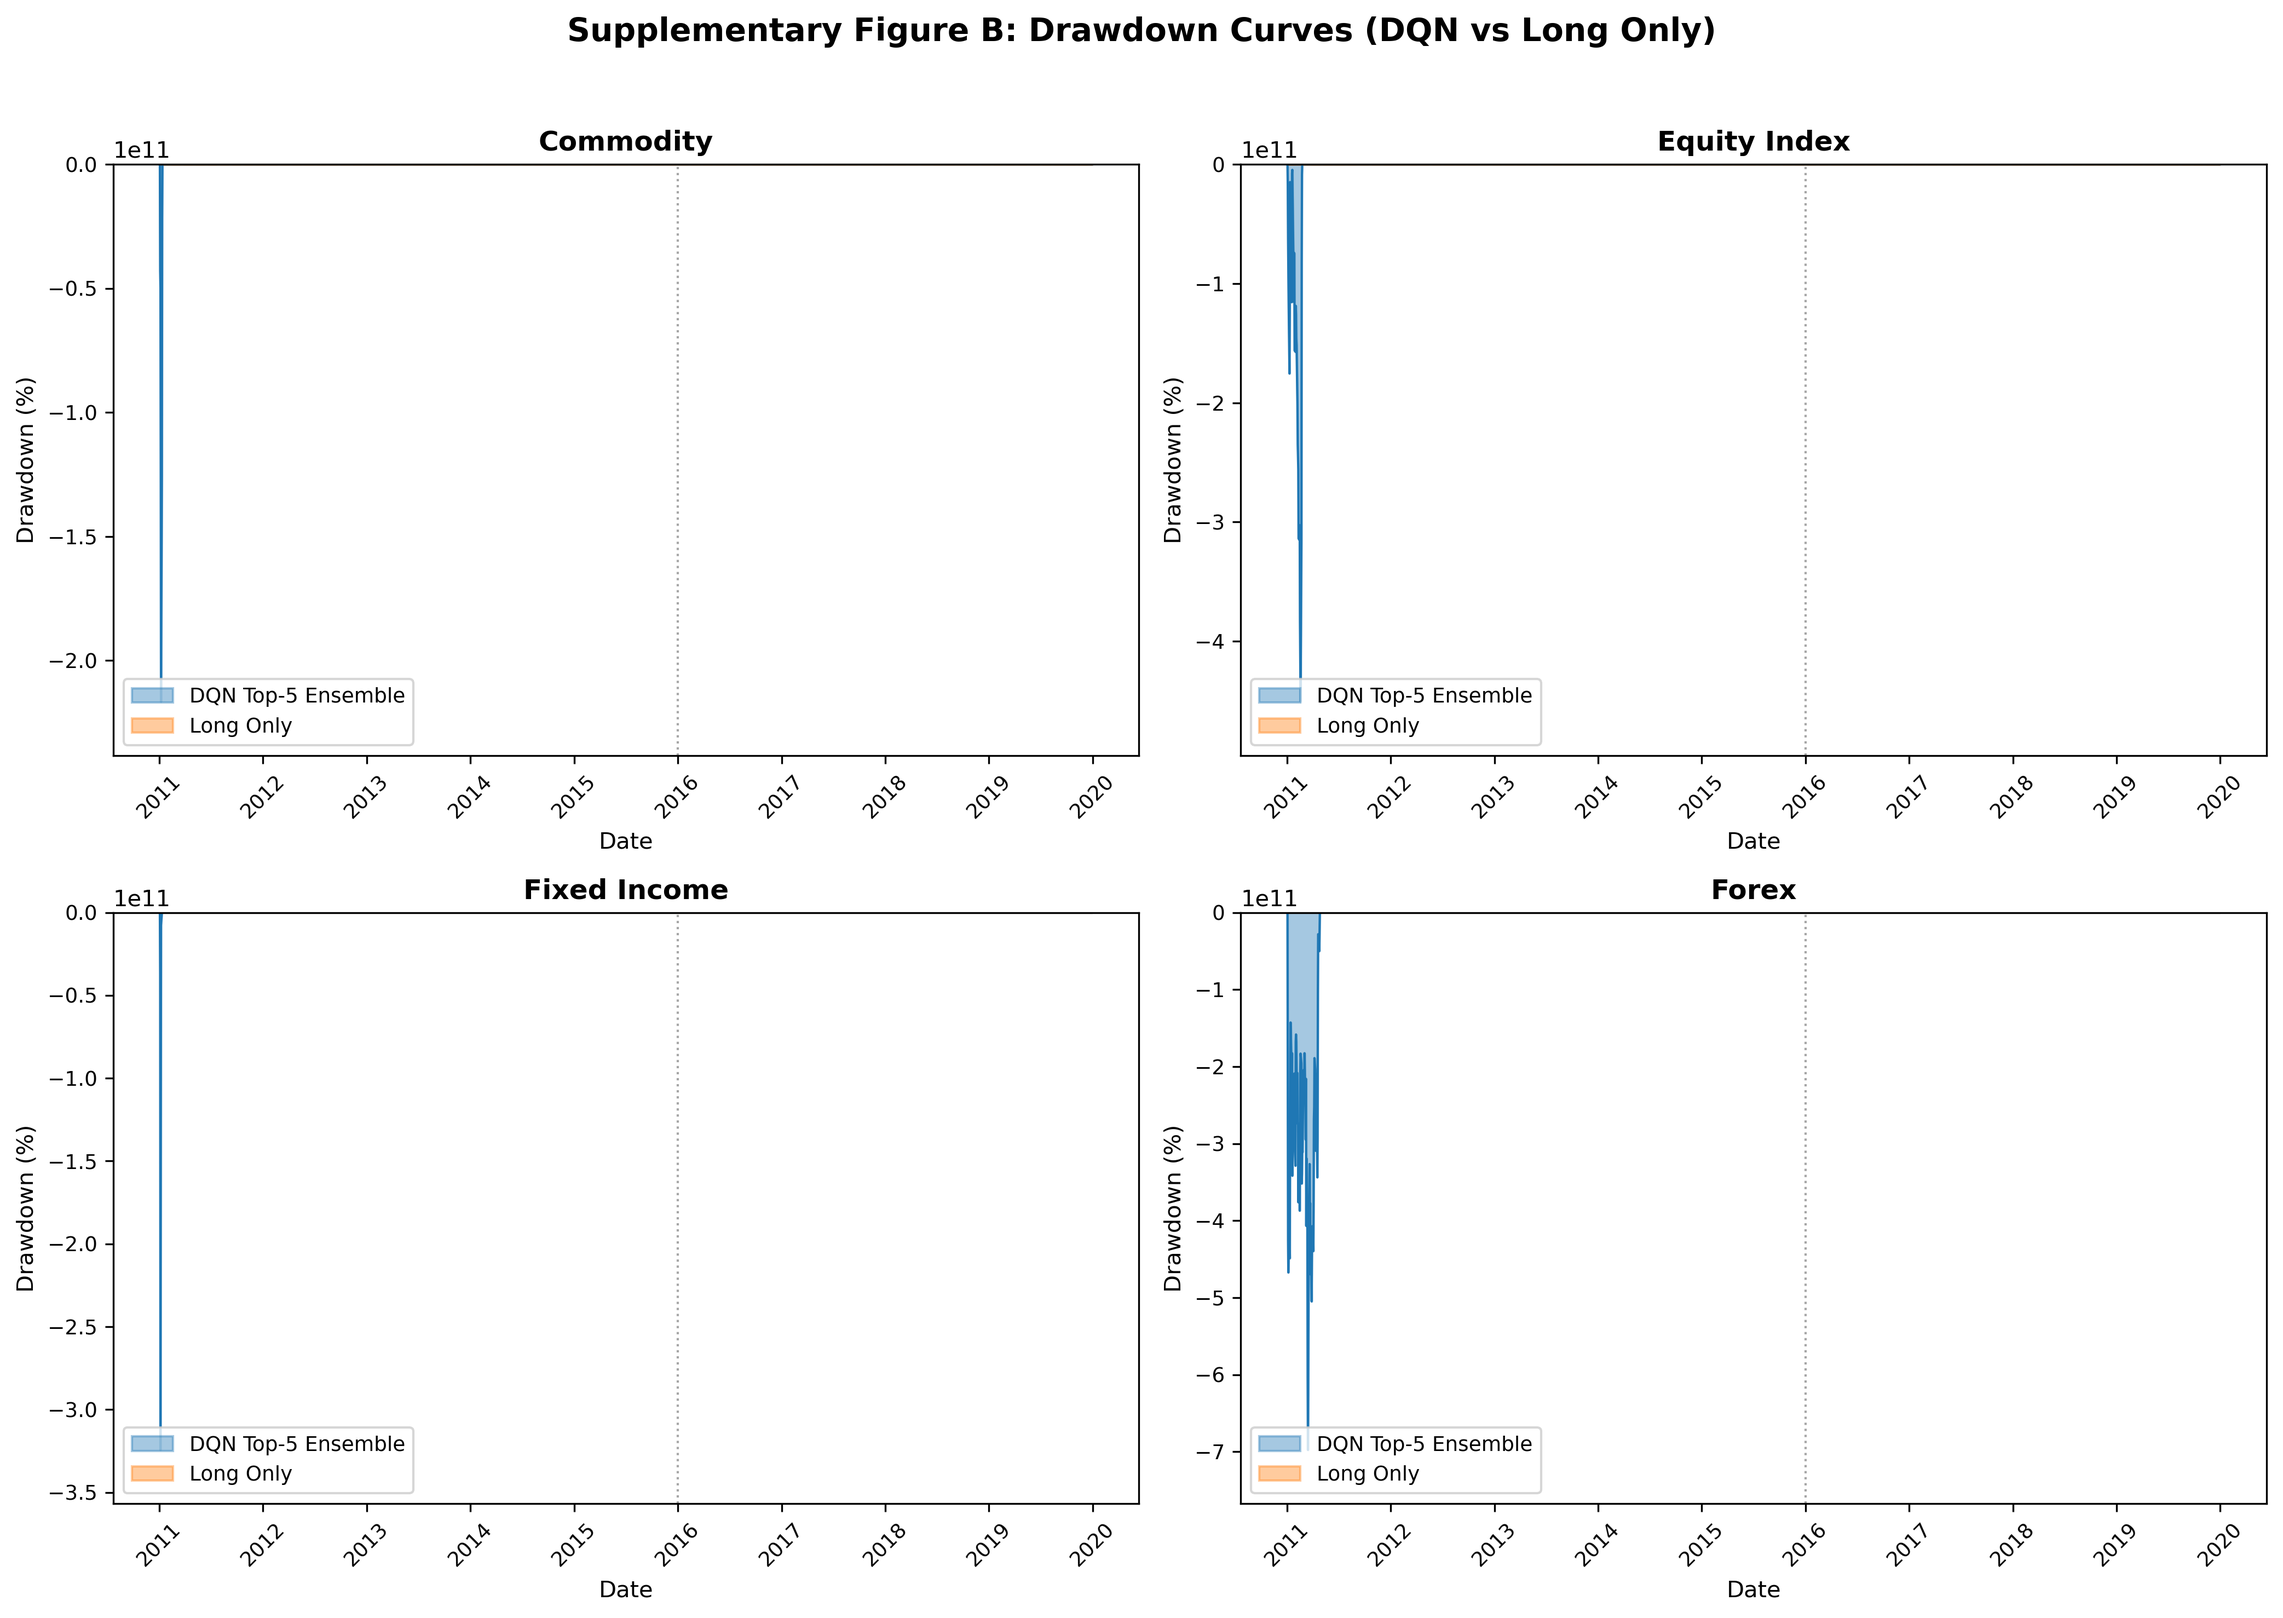
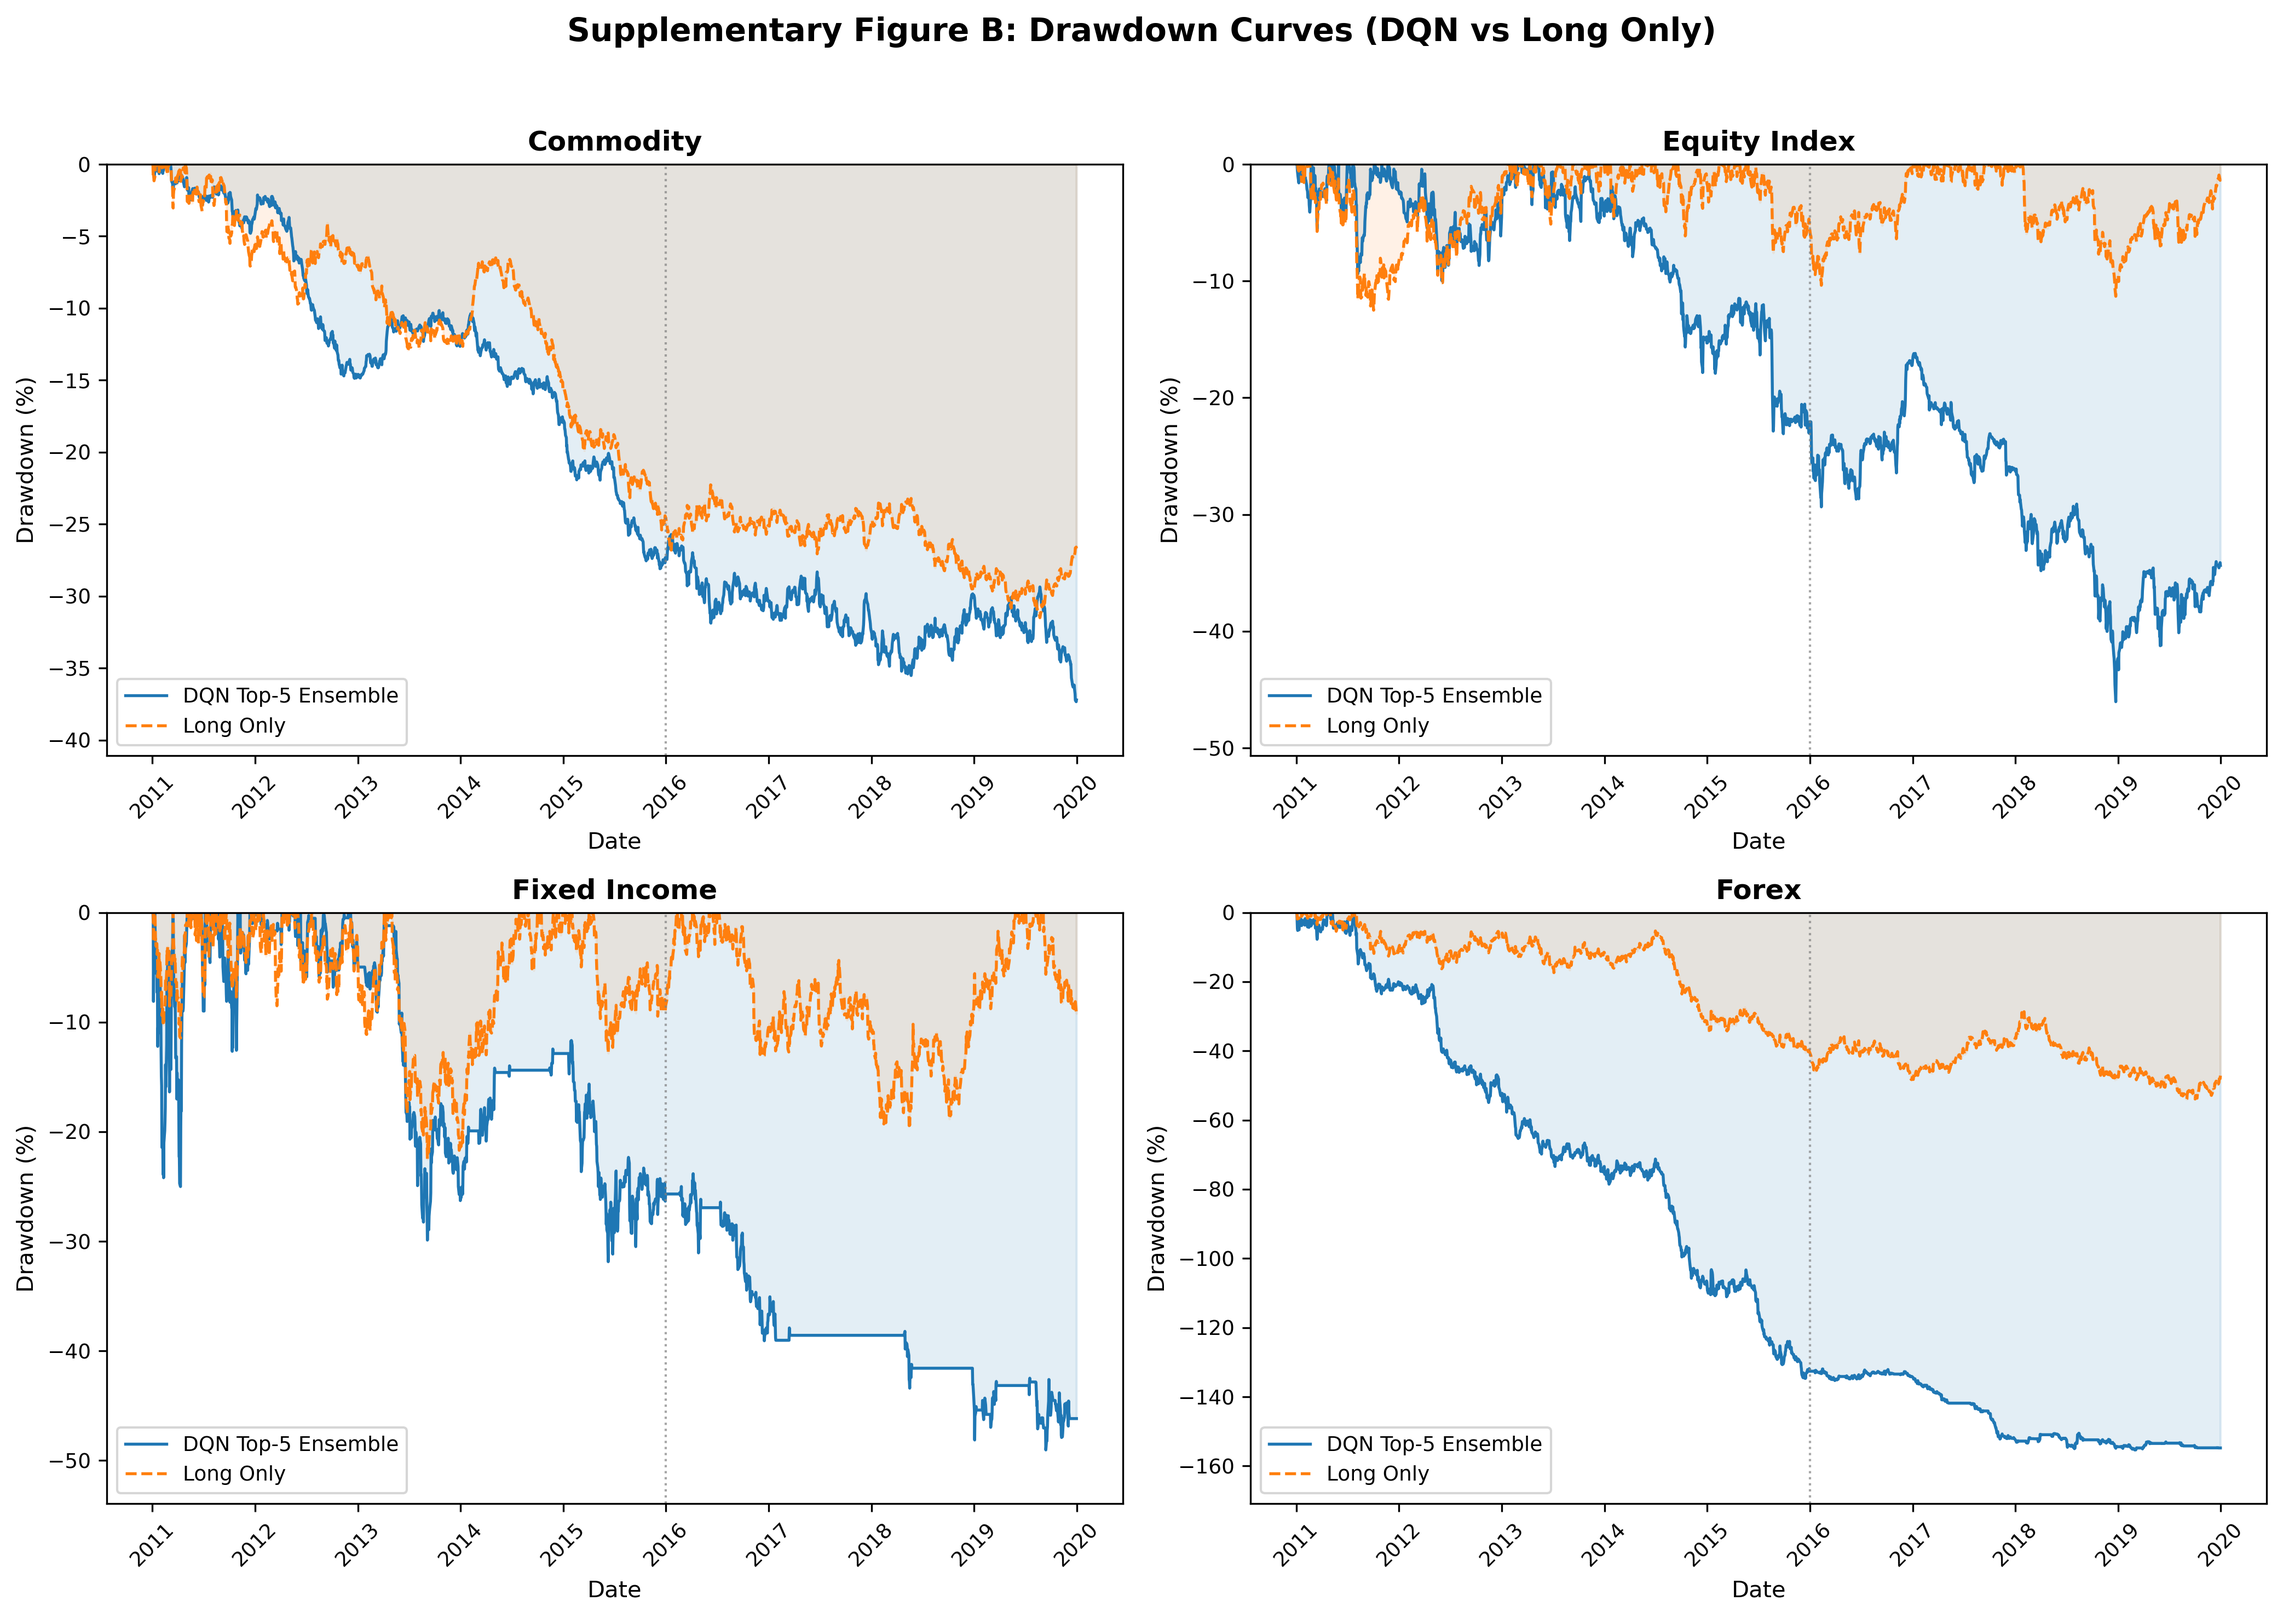
remaining bugs in the graphs

diff --git a/drl/dqn/figures/supplementary_figures.py b/drl/dqn/figures/supplementary_figures.py
@@ -21,6 +21,7 @@ from pathlib import Path
 
 from baseline_run import load_contracts, compute_portfolio_return_series
 from drl.dqn.figures.figure_data import load_scaled_ensemble_series, scale_return_series
+from drl_shared.spec import current_source_policy
 
 ASSETS = ['Commodity', 'Equity Index', 'Fixed Income', 'Forex']
 ASSET_PATH_MAP = {
@@ -38,6 +39,7 @@ R1_R2_BOUNDARY = '2016-01-01'
 DQN_COLOR = '#1f77b4'
 LONG_COLOR = '#ff7f0e'
 DPI = 300
+SOURCE_POLICY = current_source_policy()
 
 
 def load_dqn_ensemble_returns(asset_name):
@@ -51,7 +53,9 @@ def compute_long_only_returns(asset_name):
     raw_data = load_contracts(
         asset_name,
         test_start=TEST_START,
-        test_end=TEST_END
+        test_end=TEST_END,
+        excluded_contracts=SOURCE_POLICY['excluded_contracts'],
+        source_overrides=SOURCE_POLICY['source_overrides'],
     )
     
     series = compute_portfolio_return_series(raw_data, 'Long', SIGMA_TGT)
@@ -70,16 +74,32 @@ def compute_rolling_sharpe(returns, window=252):
     return rolling_sharpe.values
 
 
-def compute_drawdown(returns):
+def asset_contract_count(asset_name):
+    raw_data = load_contracts(
+        asset_name,
+        test_start=TEST_START,
+        test_end=TEST_END,
+        excluded_contracts=SOURCE_POLICY['excluded_contracts'],
+        source_overrides=SOURCE_POLICY['source_overrides'],
+    )
+    return len(raw_data)
+
+
+def compute_drawdown(returns, initial_wealth):
     """
-    cum = np.cumsum(R)
-    running_max = np.maximum.accumulate(cum)
-    drawdown = (cum - running_max) / (running_max + 1e-10) * 100
+    Use the same additive wealth convention as metrics.py:
+    wealth = N_contracts + cumsum(R_port).
     """
-    cum = np.cumsum(returns)
-    running_max = np.maximum.accumulate(cum)
-    drawdown = (cum - running_max) / (running_max + 1e-10) * 100
-    return drawdown
+    values = np.asarray(returns, dtype=float)
+    values = values[np.isfinite(values)]
+    if len(values) == 0:
+        return np.asarray([], dtype=float)
+
+    wealth = float(initial_wealth) + np.cumsum(values)
+    running_peak = np.maximum.accumulate(wealth)
+    with np.errstate(divide='ignore', invalid='ignore'):
+        drawdown = (wealth - running_peak) / running_peak * 100
+    return np.nan_to_num(drawdown, nan=0.0, posinf=0.0, neginf=0.0)
 
 
 def create_figure_rolling_sharpe():
@@ -139,19 +159,20 @@ def create_figure_drawdown():
         ax = axes[row, col]
         
         print(f"  Processing drawdown for {asset}...")
+        n_contracts = asset_contract_count(asset)
         
         dqn_dates, dqn_returns = load_dqn_ensemble_returns(asset)
         dqn_dt = pd.to_datetime(dqn_dates)
-        dqn_drawdown = compute_drawdown(dqn_returns)
+        dqn_drawdown = compute_drawdown(dqn_returns, n_contracts)
         
         long_dates, long_returns = compute_long_only_returns(asset)
         long_dt = pd.to_datetime(long_dates)
-        long_drawdown = compute_drawdown(long_returns)
+        long_drawdown = compute_drawdown(long_returns, n_contracts)
         
-        ax.fill_between(dqn_dt, dqn_drawdown, 0, color=DQN_COLOR, alpha=0.4, label='DQN Top-5 Ensemble')
-        ax.plot(dqn_dt, dqn_drawdown, color=DQN_COLOR, linewidth=1.0)
-        ax.fill_between(long_dt, long_drawdown, 0, color=LONG_COLOR, alpha=0.4, label='Long Only')
-        ax.plot(long_dt, long_drawdown, color=LONG_COLOR, linewidth=1.0, linestyle='--')
+        ax.fill_between(dqn_dt, dqn_drawdown, 0, color=DQN_COLOR, alpha=0.12)
+        ax.plot(dqn_dt, dqn_drawdown, color=DQN_COLOR, linewidth=1.3, label='DQN Top-5 Ensemble')
+        ax.fill_between(long_dt, long_drawdown, 0, color=LONG_COLOR, alpha=0.10)
+        ax.plot(long_dt, long_drawdown, color=LONG_COLOR, linewidth=1.3, linestyle='--', label='Long Only')
         
         boundary_date = pd.Timestamp(R1_R2_BOUNDARY)
         ax.axvline(x=boundary_date, color='gray', linestyle=':', linewidth=1, alpha=0.7)
@@ -162,7 +183,7 @@ def create_figure_drawdown():
         ax.legend(loc='lower left', fontsize=9)
         ax.tick_params(axis='both', labelsize=9)
         ax.tick_params(axis='x', rotation=45)
-        ax.set_ylim(bottom=min(dqn_drawdown.min(), long_drawdown.min()) * 1.1, top=5)
+        ax.set_ylim(bottom=min(dqn_drawdown.min(), long_drawdown.min()) * 1.1, top=0)
     
     plt.tight_layout(rect=[0, 0, 1, 0.96])
     return fig

diff --git a/drl/dqn/reports/generate_ensemble_table2.py b/drl/dqn/reports/generate_ensemble_table2.py
@@ -23,11 +23,11 @@ import torch
 ROOT = Path(__file__).resolve().parents[3]
 sys.path.insert(0, str(ROOT))
 
-from config import ASSET_CLASSES, BP, PAPER_TABLE2, METRIC_NAMES, SOURCE_OVERRIDES
+from config import BP, PAPER_TABLE2, METRIC_NAMES
 from baseline_run import load_contracts, compute_contract_returns_from_positions
 from drl.dqn.model import DQNAgent
 from drl.dqn.spec import RETRAIN_ROUNDS, SIGMA_TGT, WARMUP, contract_data_path
-from drl_shared.spec import SEQ_LEN, SIGMA_TGT_DEFAULT
+from drl_shared.spec import SEQ_LEN, SIGMA_TGT_DEFAULT, current_source_policy, universe_tickers
 from drl_shared.state_space import action_id_to_position, get_feature_window
 from vol_scaling import get_portfolio_bridge
 from metrics import compute_metrics
@@ -56,6 +56,10 @@ TOP5_SEEDS = {
         "r2": [47, 45, 48, 49, 50],
     },
 }
+
+SOURCE_POLICY = current_source_policy()
+SOURCE_OVERRIDES = dict(SOURCE_POLICY["source_overrides"])
+EXCLUDED_CONTRACTS = set(SOURCE_POLICY["excluded_contracts"])
 
 
 def find_latest_bundle(asset_slug: str, round_name: str, seed: int) -> Path | None:
@@ -280,7 +284,11 @@ def compute_portfolio_returns(
     Returns:
         (portfolio_return_series, n_contracts)
     """
-    tickers = ASSET_CLASSES.get(asset_name, [])
+    tickers = [
+        ticker
+        for ticker in universe_tickers(asset_name)
+        if ticker not in EXCLUDED_CONTRACTS
+    ]
     contract_series = []
     n_contracts = 0
     

diff --git a/drl/dqn/figures/exhibit4_per_contract_sharpe.py b/drl/dqn/figures/exhibit4_per_contract_sharpe.py
@@ -37,7 +37,7 @@ from baseline_run import (
 from drl.dqn.model import DQNAgent
 from drl.dqn.spec import contract_data_path, resolve_checkpoint_path
 from drl_shared.state_space import action_id_to_position, get_feature_window
-from drl_shared.spec import SEQ_LEN as FEATURE_SEQ_LEN
+from drl_shared.spec import SEQ_LEN as FEATURE_SEQ_LEN, current_source_policy
 
 # Configuration
 ASSETS = ['Commodity', 'Equity Index', 'Fixed Income', 'Forex']
@@ -52,6 +52,7 @@ SIGMA_TGT = 0.058
 TEST_START = '2011-01-01'
 TEST_END = '2019-12-31'
 ROUND_NUM = 1  # Use r1-trained models per task
+SOURCE_POLICY = current_source_policy()
 
 # Paths
 REPO_ROOT = Path(__file__).resolve().parents[3]
@@ -271,7 +272,9 @@ def load_or_compute_all_sharpes(
         raw_data = load_contracts(
             asset,
             test_start=TEST_START,
-            test_end=TEST_END
+            test_end=TEST_END,
+            excluded_contracts=SOURCE_POLICY['excluded_contracts'],
+            source_overrides=SOURCE_POLICY['source_overrides'],
         )
         
         if not raw_data:

diff --git a/drl/dqn/figures/paper_figure1_cumulative_returns.py b/drl/dqn/figures/paper_figure1_cumulative_returns.py
@@ -20,6 +20,7 @@ from pathlib import Path
 
 from baseline_run import load_contracts, compute_portfolio_return_series
 from drl.dqn.figures.figure_data import load_scaled_ensemble_series, scale_return_series
+from drl_shared.spec import current_source_policy
 
 ASSETS = ['Commodity', 'Equity Index', 'Fixed Income', 'Forex']
 ASSET_PATH_MAP = {
@@ -38,6 +39,7 @@ DQN_COLOR = '#1f77b4'
 LONG_COLOR = '#ff7f0e'
 DPI = 300
 FIGSIZE = (16, 10)
+SOURCE_POLICY = current_source_policy()
 
 
 def load_dqn_ensemble_returns(asset_name):
@@ -52,7 +54,9 @@ def compute_long_only_returns(asset_name):
     raw_data = load_contracts(
         asset_name,
         test_start=TEST_START,
-        test_end=TEST_END
+        test_end=TEST_END,
+        excluded_contracts=SOURCE_POLICY['excluded_contracts'],
+        source_overrides=SOURCE_POLICY['source_overrides'],
     )
     
     series = compute_portfolio_return_series(raw_data, 'Long', SIGMA_TGT)
